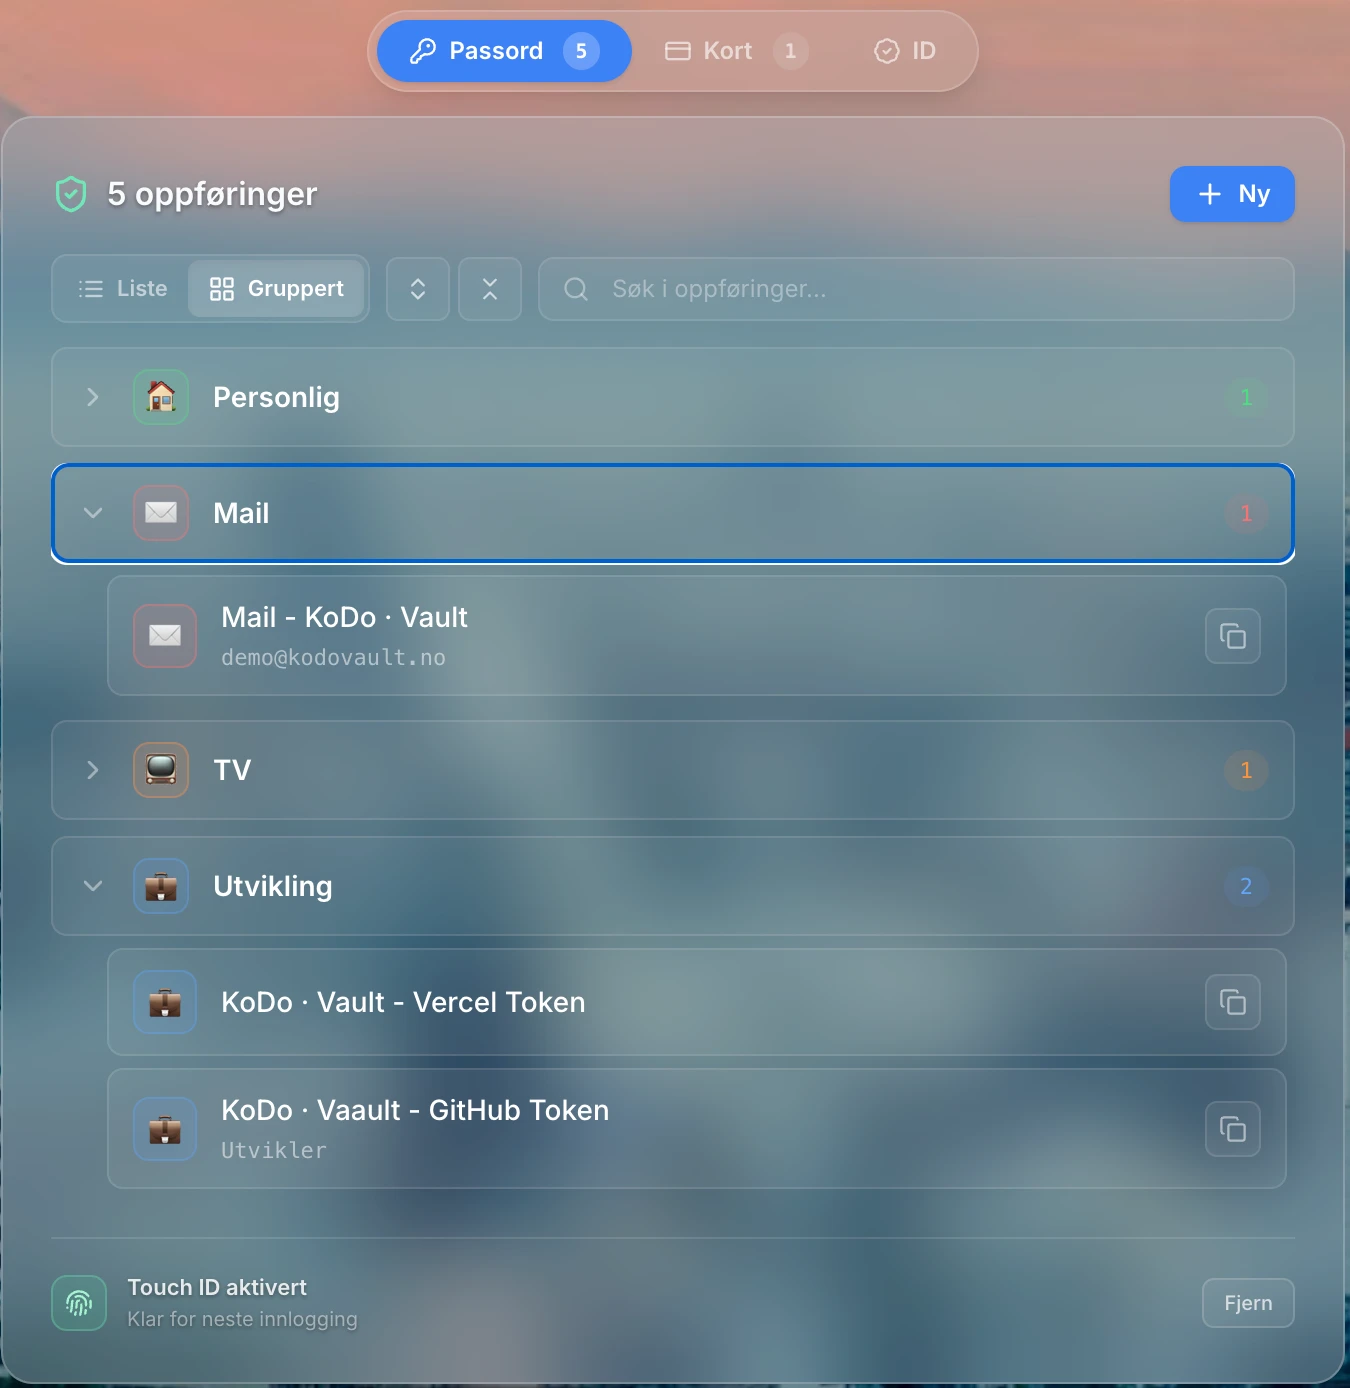
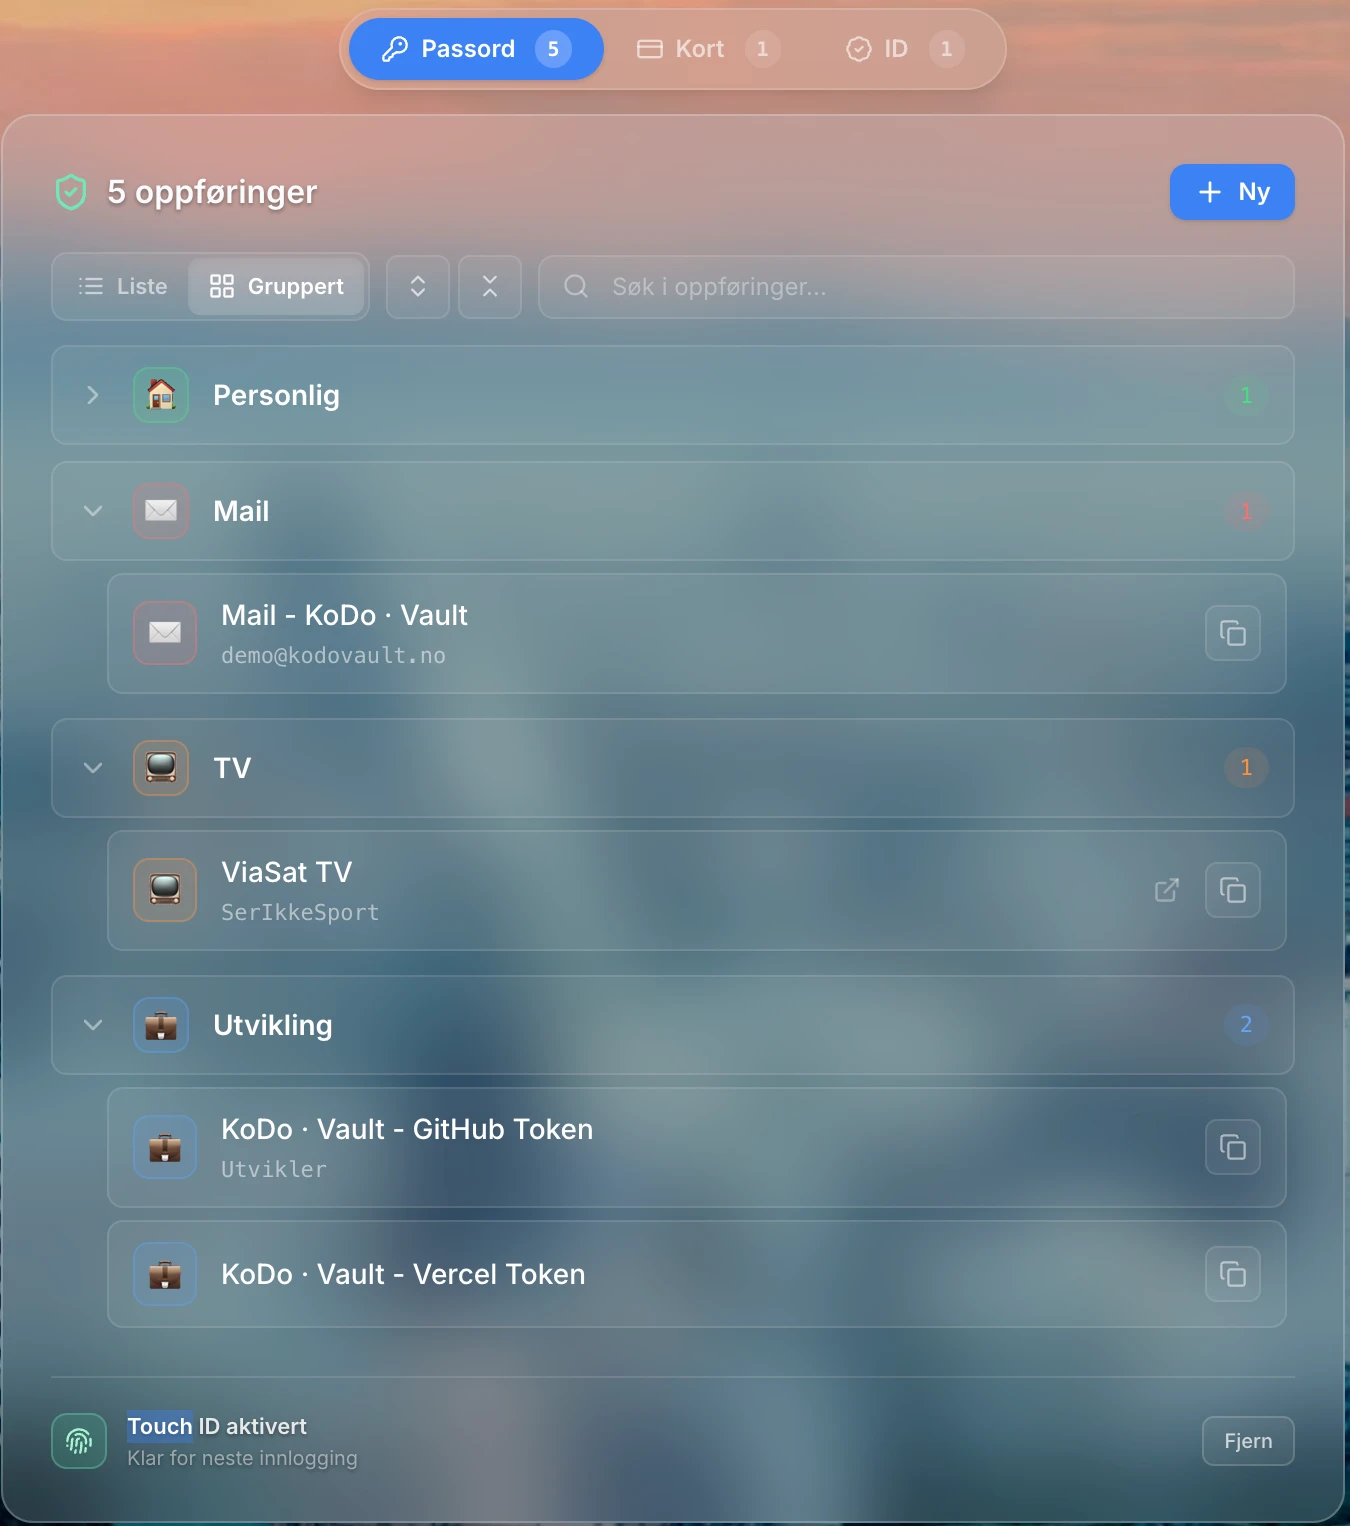
Showcase: oppdatert oversiktsbilde + kortdetaljer inn
- vault-dashboard.webp byttet: skrivefeilen «Vaault» er rettet, og flere
  grupper er utvidet så bildet viser mer reelt innhold.
- card-detail.webp inn som nytt kort. Viser maskert kortnummer, CVV og
  PIN, og tap-kort-telefonen — det praktiske scenariet (lommeboka borte
  i utlandet) som resten av bildene ikke dekker. Baksidebildet med
  synlig kortnummer er fjernet fra kilden.

Verifisert: next build grønt.

Claude-Session: https://claude.ai/code/session_01DuJq2M8nKfYLM74qMw1WHt

diff --git a/frontend/lib/i18n.ts b/frontend/lib/i18n.ts
@@ -115,6 +115,9 @@ export const STRINGS = {
     shotDashAlt: "Oversikt over passord gruppert i kategorier",
     shotDashCaption:
       "Passord, kort og ID-er gruppert og søkbare. Dekryptert lokalt, kun mens vaulten er åpen.",
+    shotCardAlt: "Kort i vaulten med maskert nummer, CVV, PIN og tap-kort-telefon",
+    shotCardCaption:
+      "Et kort i vaulten: nummer, CVV og PIN er maskert til du trykker — og tap-kort-telefonen ligger der når lommeboka er borte i utlandet.",
     shotMasterAlt: "Opprett master-passord — advarsel om at data ikke kan gjenopprettes",
     shotMasterCaption:
       "Ved oppsett: ingen «glemt passord». Du bekrefter selv at dataene er tapt hvis master-passordet mistes.",
@@ -287,6 +290,9 @@ export const STRINGS = {
     shotDashAlt: "Overview of passwords grouped by category",
     shotDashCaption:
       "Passwords, cards and IDs grouped and searchable. Decrypted locally, only while the vault is open.",
+    shotCardAlt: "A card in the vault with masked number, CVV, PIN and lost-card phone number",
+    shotCardCaption:
+      "A card in the vault: number, CVV and PIN stay masked until you tap — and the lost-card hotline is right there when your wallet is gone abroad.",
     shotMasterAlt: "Create master password — warning that data cannot be recovered",
     shotMasterCaption:
       "At setup: no \u00abforgot password\u00bb. You confirm yourself that the data is lost if the master password is.",

diff --git a/frontend/components/ShowcaseSection.tsx b/frontend/components/ShowcaseSection.tsx
@@ -71,6 +71,7 @@ export function ShowcaseSection({ locale }: ShowcaseSectionProps) {
 
   const cards = [
     { src: "/shots/vault-dashboard.webp", alt: s.shotDashAlt, cap: s.shotDashCaption },
+    { src: "/shots/card-detail.webp", alt: s.shotCardAlt, cap: s.shotCardCaption },
     { src: "/shots/master-password.webp", alt: s.shotMasterAlt, cap: s.shotMasterCaption },
     { src: "/shots/password-lab.png", alt: s.shotLabAlt, cap: s.shotLabCaption },
     { src: "/shots/backup.png", alt: s.shotBackupAlt, cap: s.shotBackupCaption },
